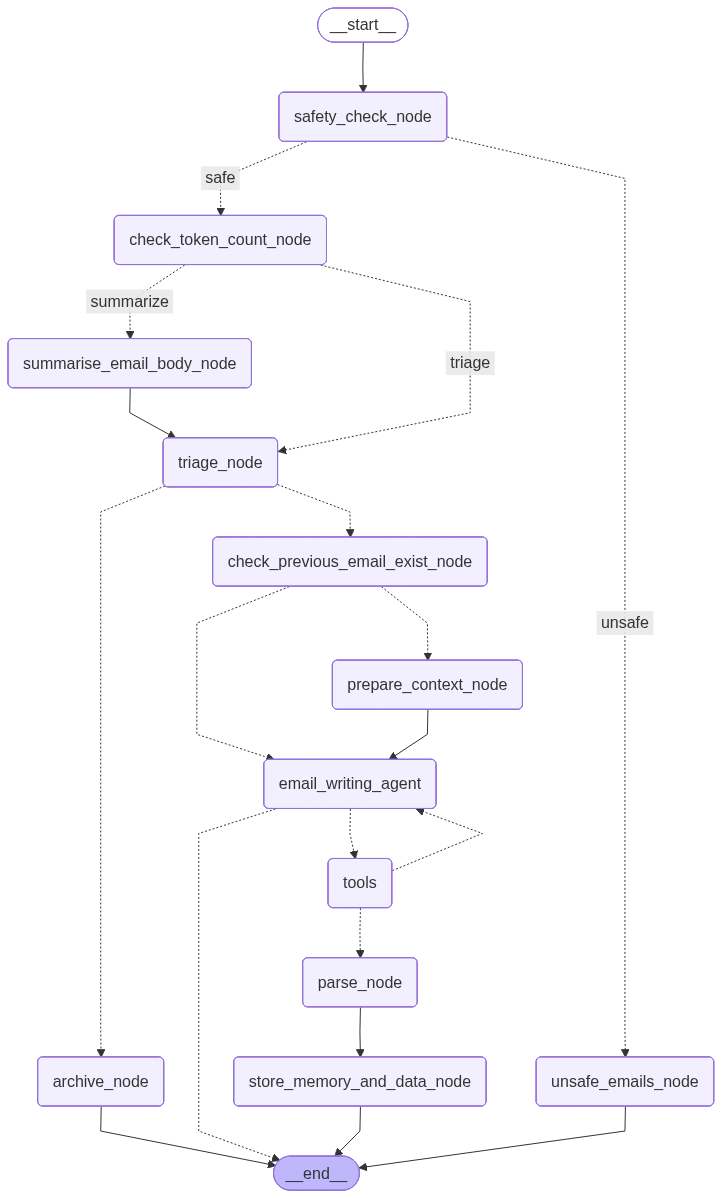
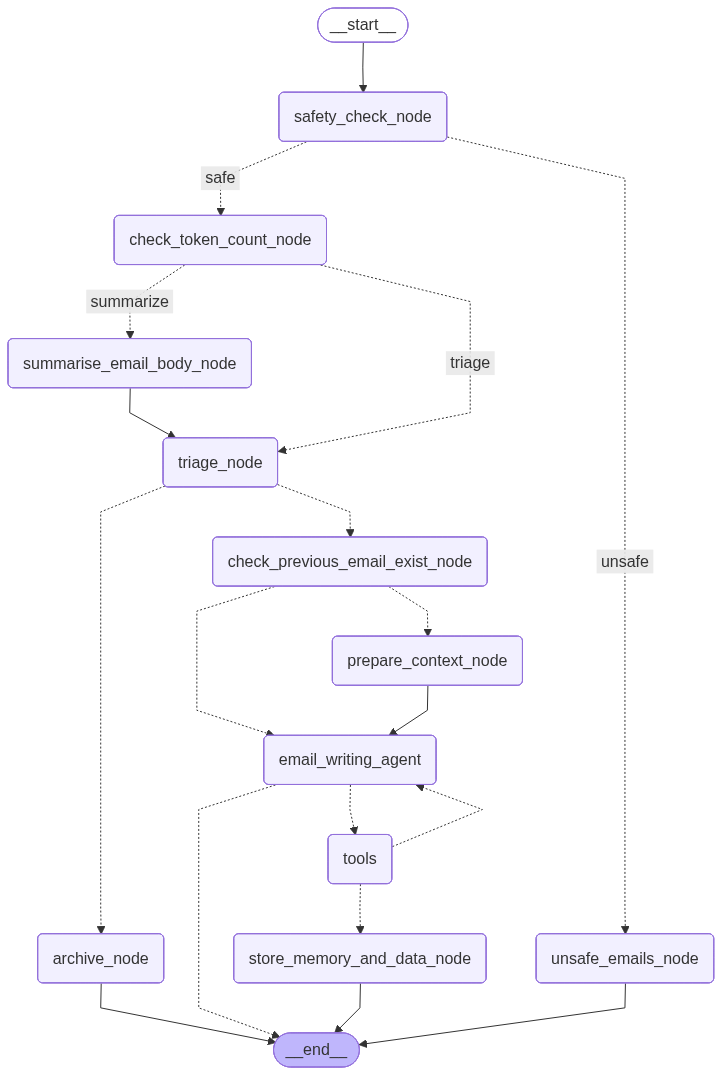
chnages

diff --git a/app/graph.py b/app/graph.py
@@ -23,6 +23,7 @@ from app.database.connection import pool
 from app.utils.embeddings import remote_embeddings
 from langgraph.checkpoint.postgres import PostgresSaver
 from langgraph.store.postgres import PostgresStore
+from app.tools.email_writing_agent_tools import email_writing_agent_tools
 
 # Define a standard retry policy for database-heavy nodes
 db_retry_policy = RetryPolicy(
@@ -67,7 +68,7 @@ builder.add_node(
 
 builder.add_node("archive_node", archive_node,retry=db_retry_policy)   
 
-builder.add_node("tools", ToolNode(tools), retry=tool_node_retry_policy)
+builder.add_node("tools", ToolNode(email_writing_agent_tools), retry=tool_node_retry_policy)
 
 # Edges (Same as your original logic)
 builder.add_edge(START, "safety_check_node")
@@ -133,16 +134,13 @@ builder.add_edge("store_memory_and_data_node", END)
 builder.add_edge("unsafe_emails_node", END)
 builder.add_edge("archive_node", END)
 
+
 toolkit = GmailToolkit()
-
-
-
 graph=builder.compile(checkpointer=checkpointer, store=memory_store,debug=True)
 
 
 
 
-display(graph)
 
 
 # try: